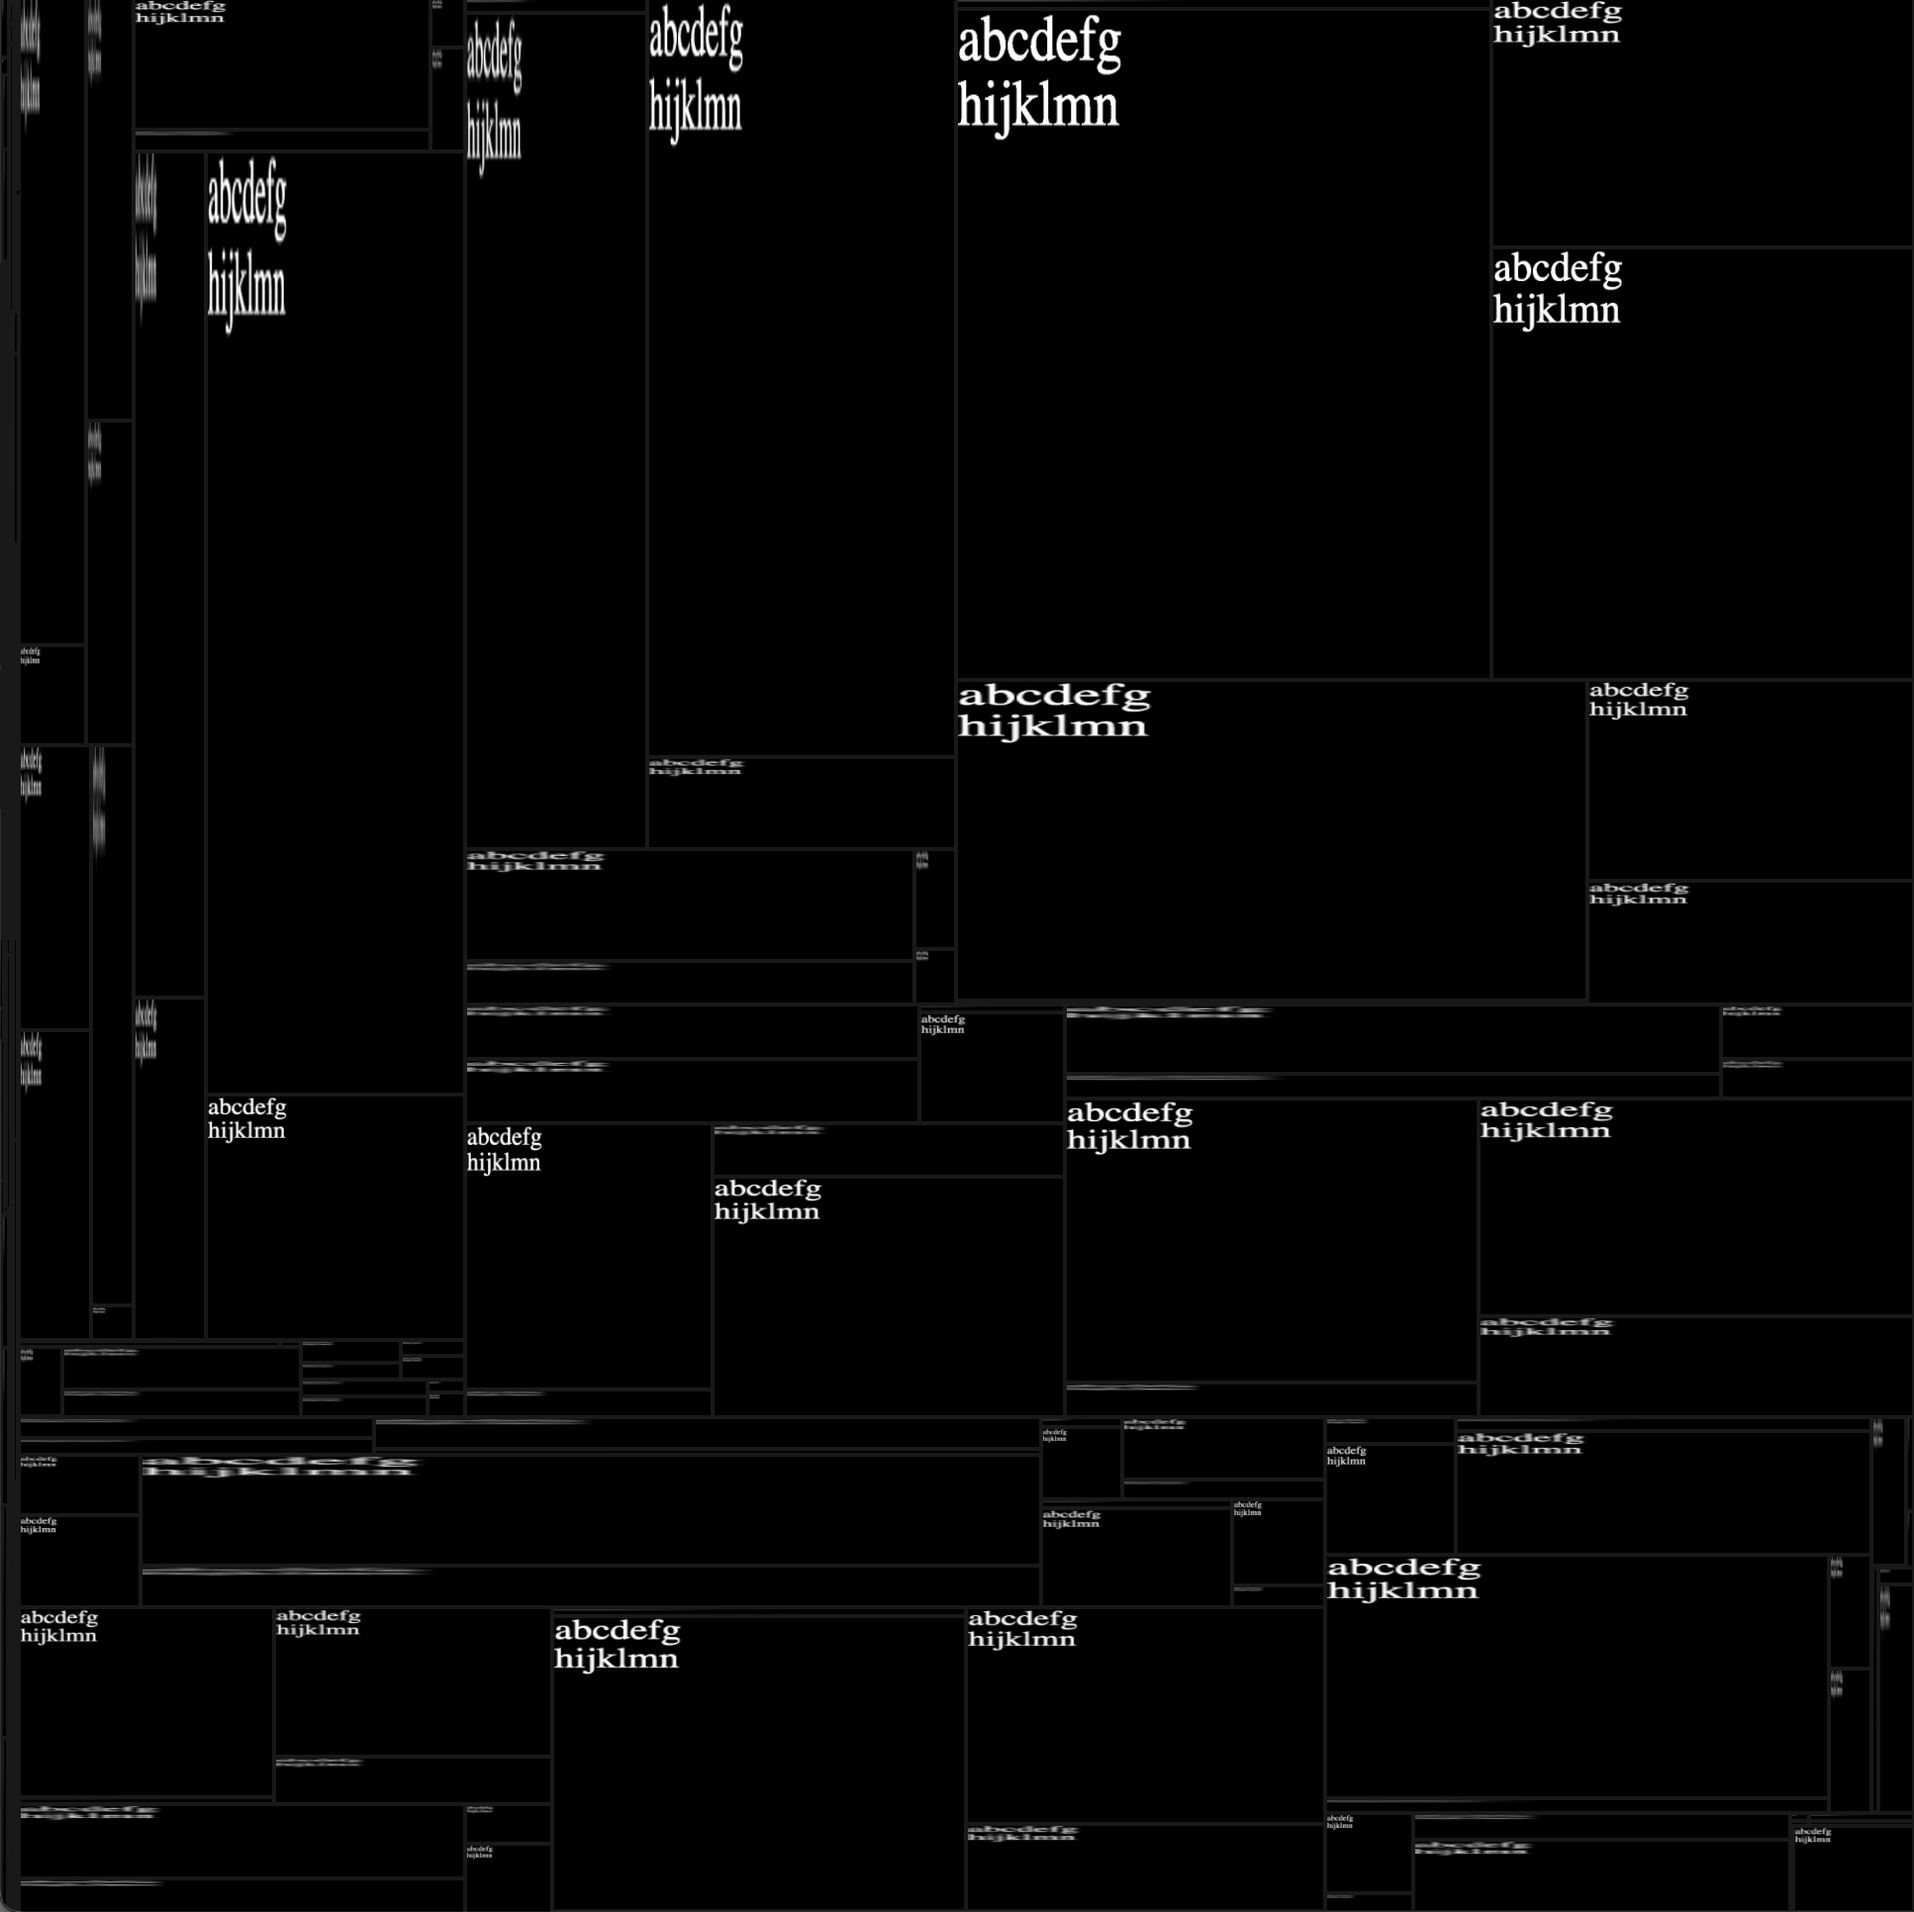
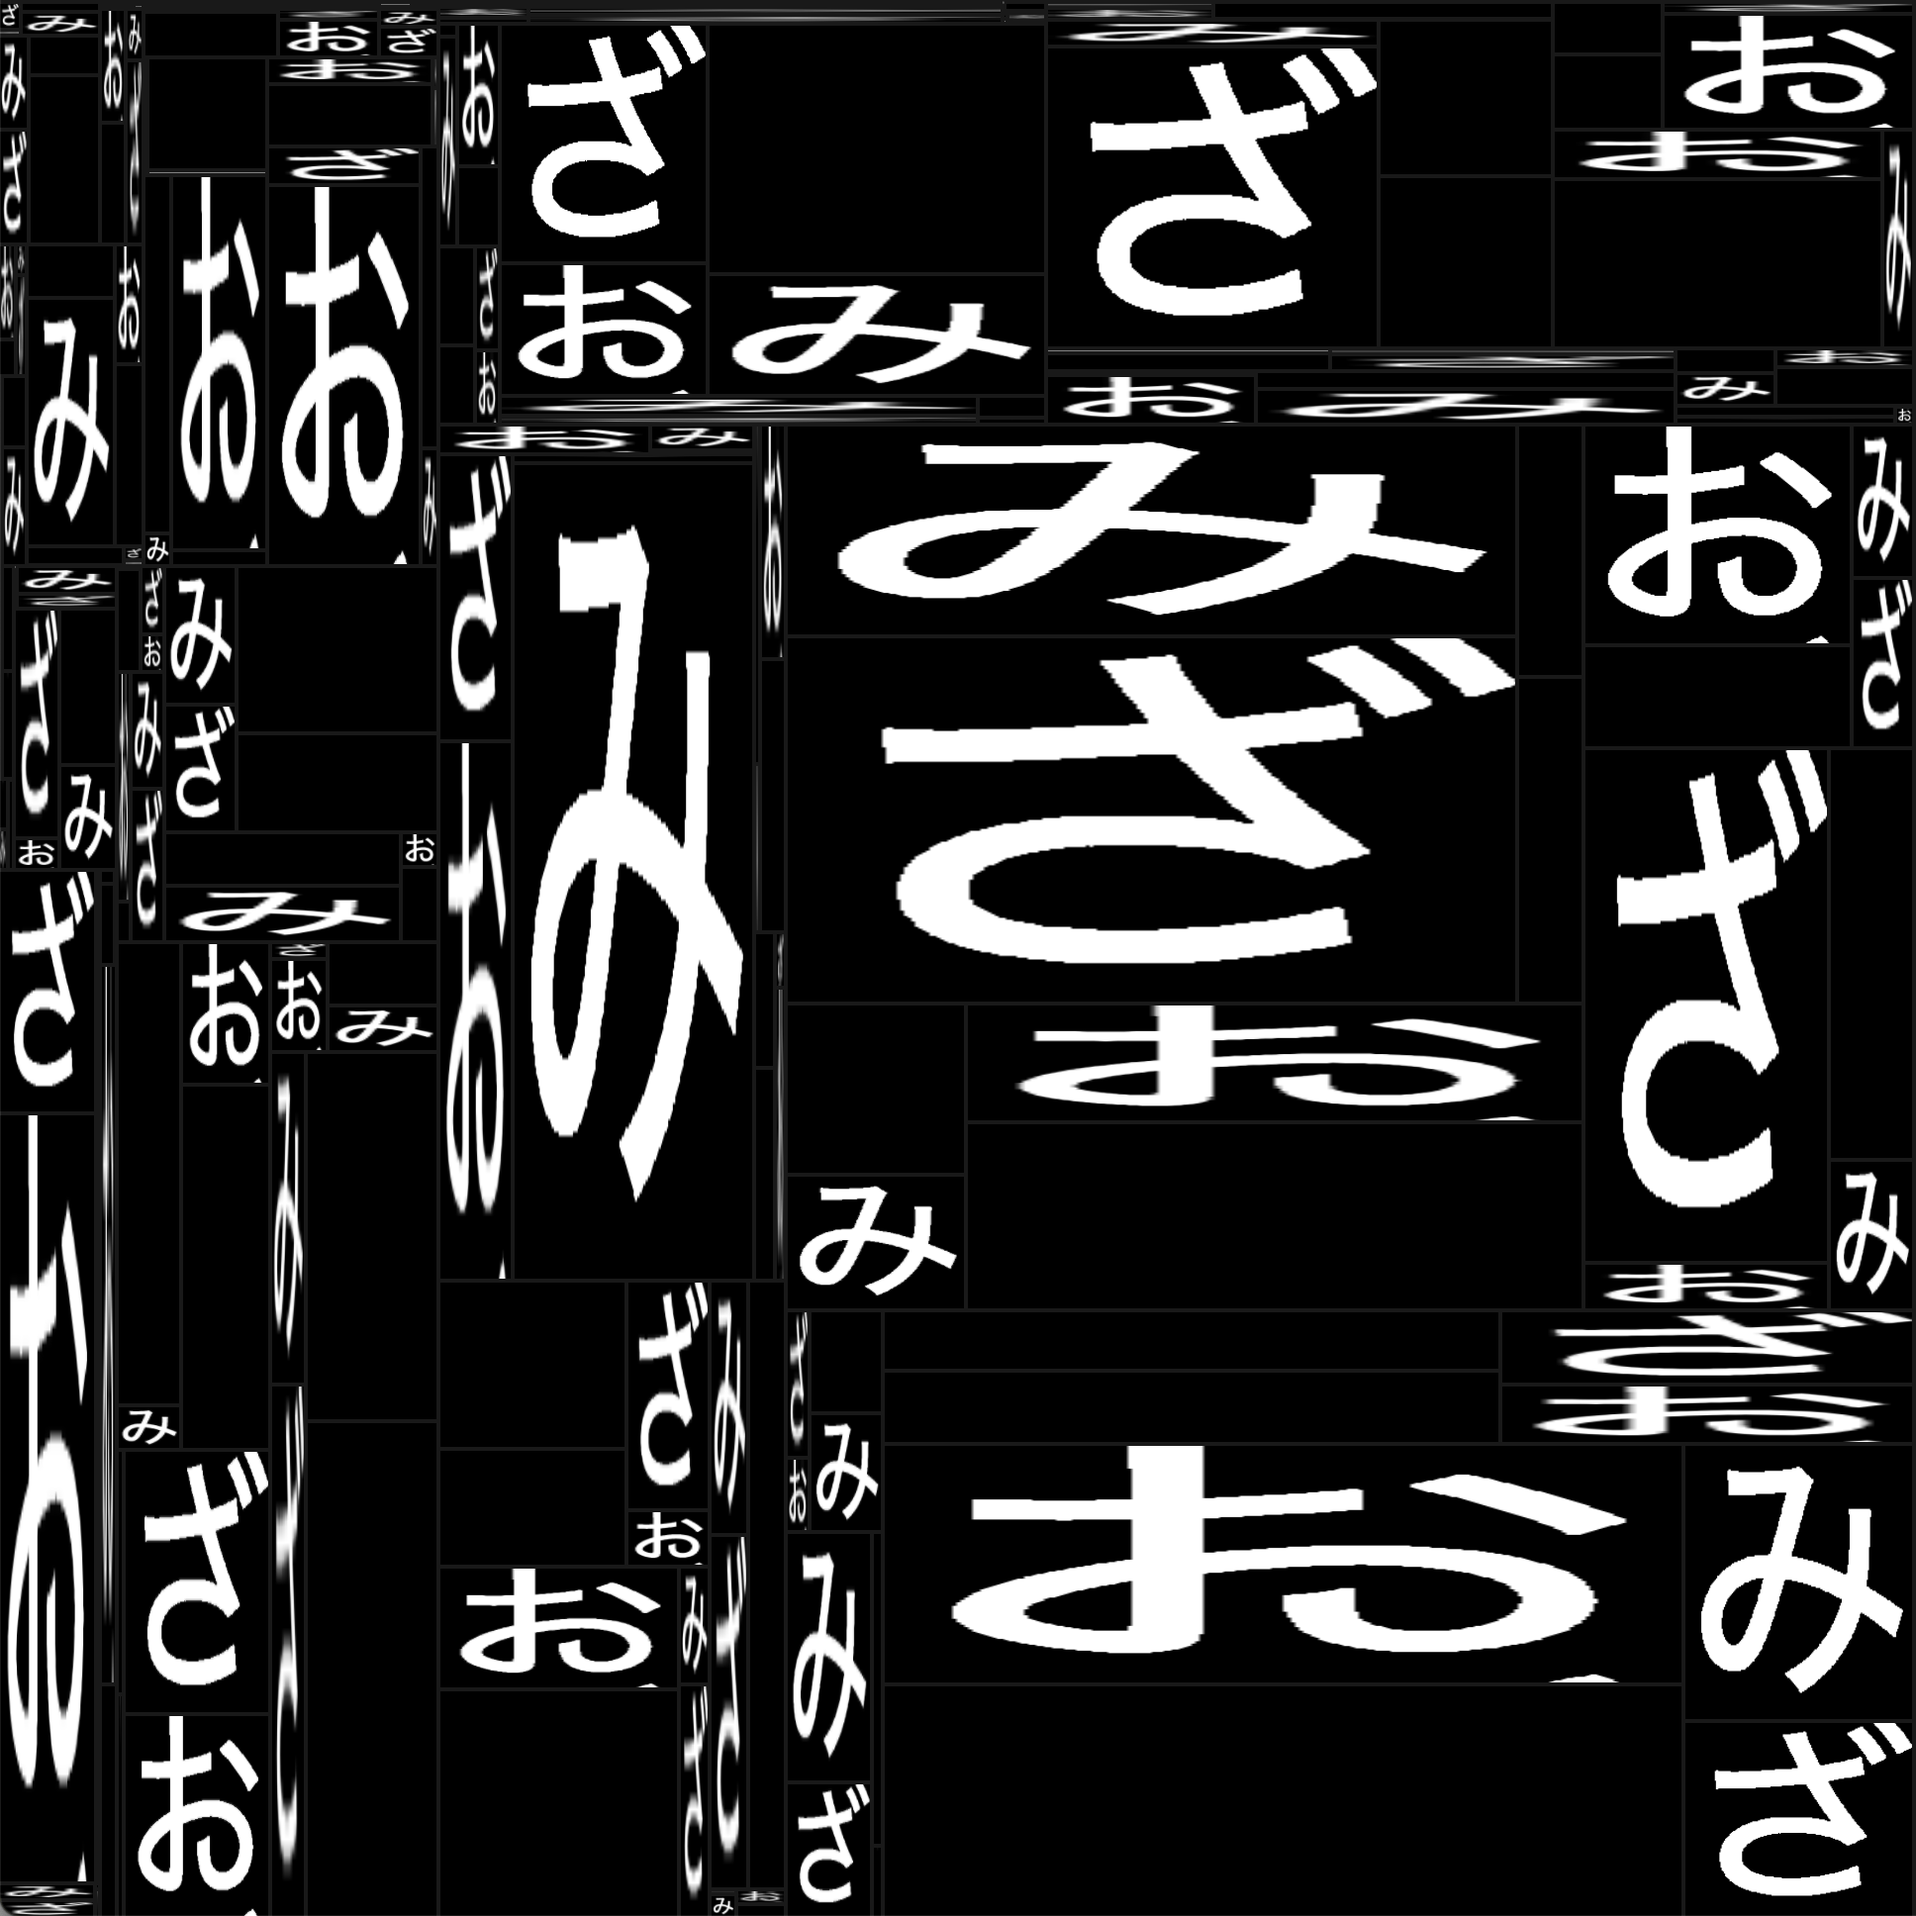
Fix 25_1

diff --git a/25_typography/25_1/src/index.js b/25_typography/25_1/src/index.js
@@ -177,21 +177,36 @@ const renderTiles = () => {
 };
 
 const createTextTexture = () => {
+    const originalText = "おはようございます、みなさん";
     let txt = [];
-    txt.push("abcdefg");
-    txt.push("hijklmn");
+
+    const textNum = 5;
+    for (let i = 0, len = originalText.length; i < len; i += textNum) {
+        let textFrag = originalText.slice(i, i + textNum);
+        if (textFrag.length < textNum) {
+            while (textFrag.length < textNum) {
+                textFrag += "　";
+            }
+        }
+        txt.push(textFrag);
+    }
+    if (txt.length < textNum) {
+        while (txt.length < textNum) {
+            txt.push("　　　　　");
+        }
+    }
     const canvas = document.createElement("canvas");
-    canvas.width = 1024;
-    canvas.height = 1024;
+    canvas.width = 1000;
+    canvas.height = 1000;
 
     const ctx = canvas.getContext("2d");
-    ctx.font = "100px LucidaSansUnicode";
+    ctx.font = "200px 'Arial'";
     ctx.fillStyle = "#ffffff";
     ctx.textAlign = "left";
     ctx.textBaseline = "top";
 
-    for ( let i = 0; i < txt.length; i ++ ) {
-        ctx.fillText( txt[i], 0, 100 * i );
+    for (let i = 0; i < txt.length; i ++) {
+        ctx.fillText(txt[i], 0, 200 * i);
     }
 
     const texture = new THREE.Texture(canvas);
